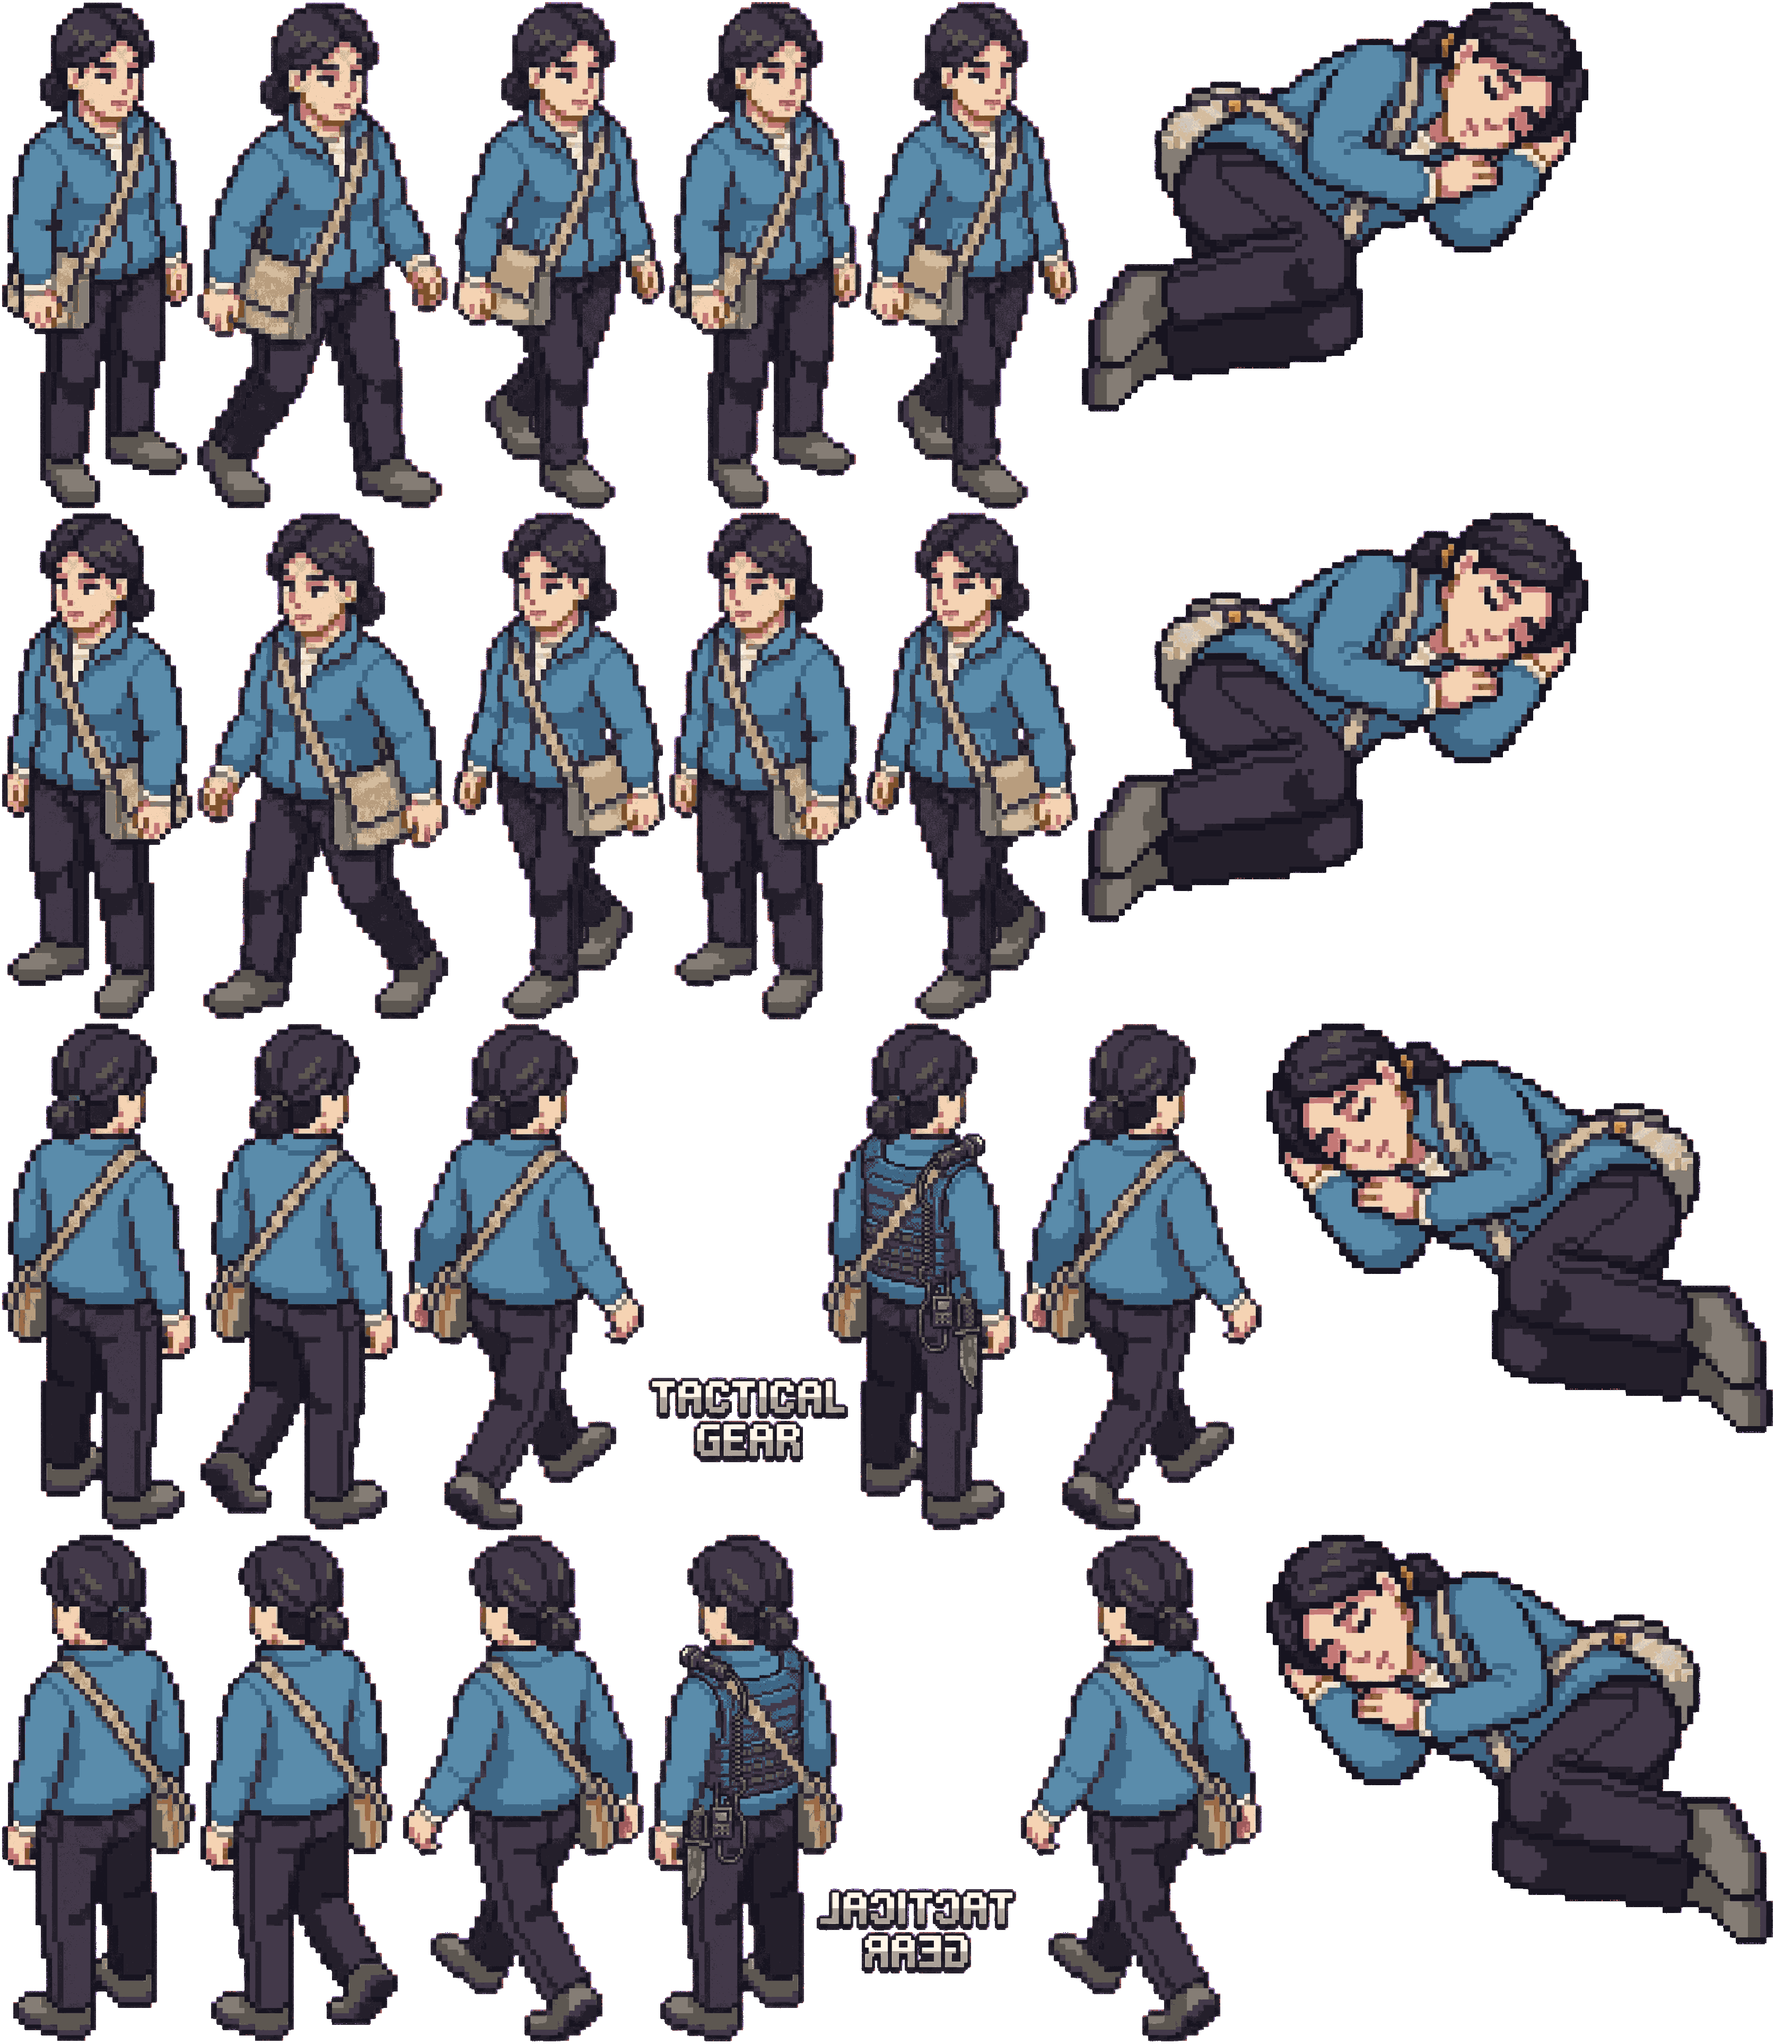
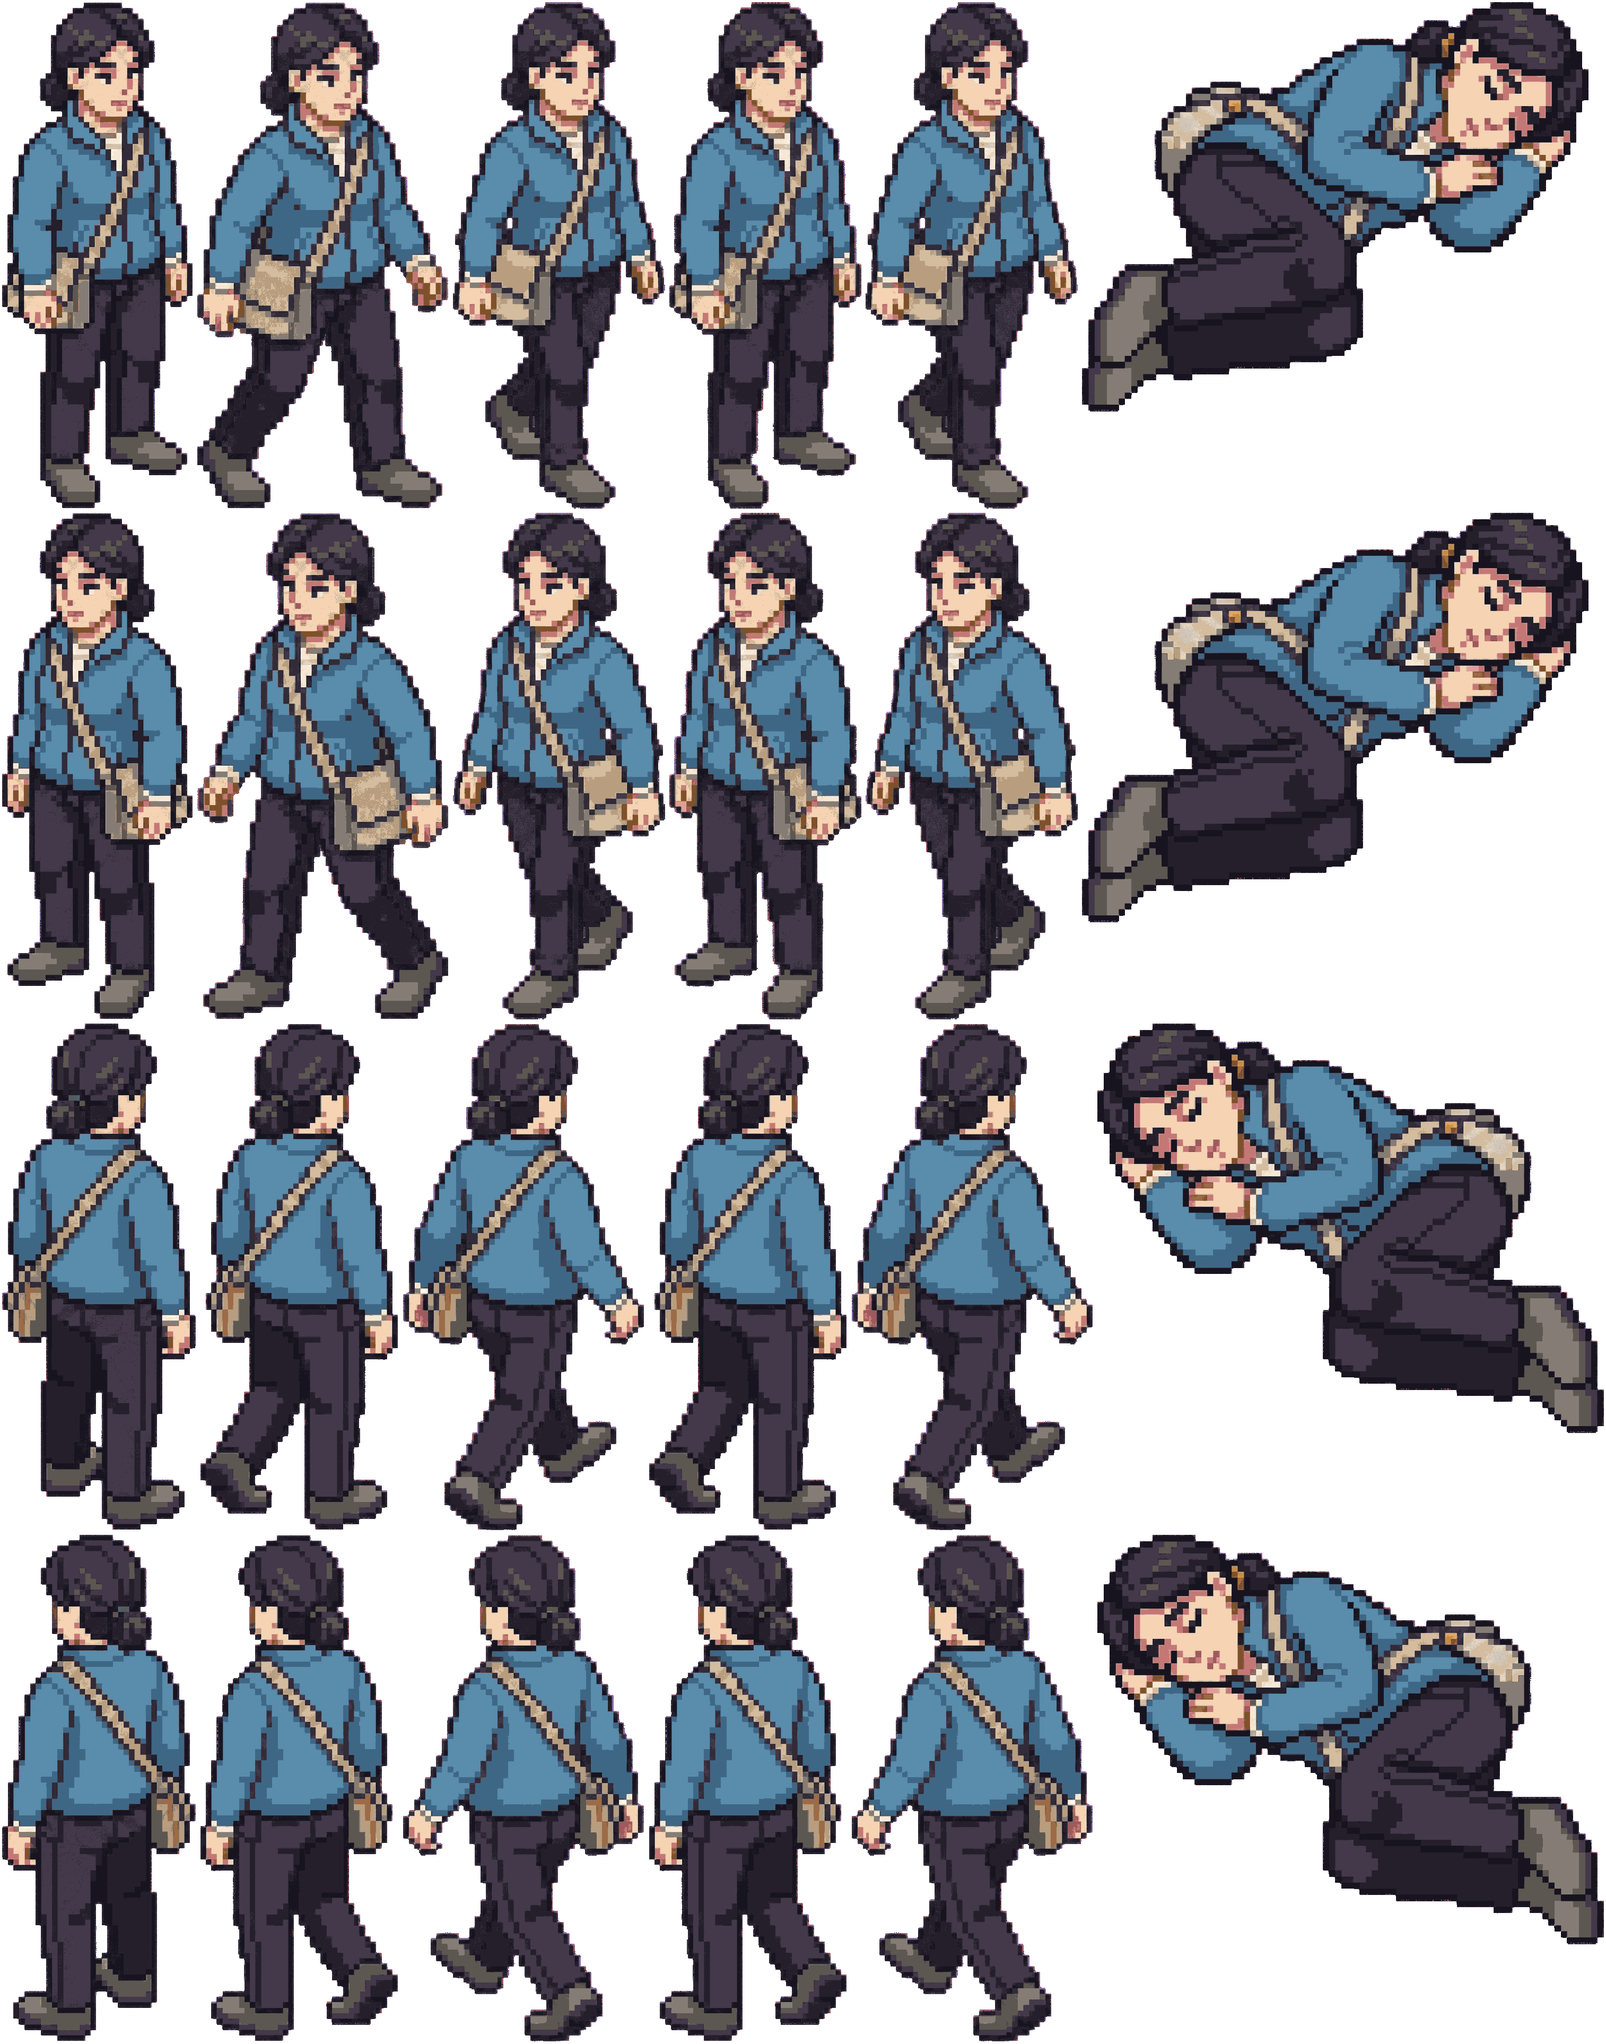
char-sprites T1: TACTICAL GEAR was baked into Amara's atlas, and every gate passed it
WHAT IT WAS. Not a runtime label and not a missing-asset fallback: pixels. The cell
`contact-b-ne` of packages/forge/content/cast/amara/atlas.png is a STANDING figure in
a tactical harness with the words TACTICAL GEAR set beside her in MASTER_PALETTE
silver — the image model captioning the costume it had just invented — and the
mirror standard derived `contact-b-nw` from it, so the caption also shipped
backwards. Nothing in packages/ contains the string; worldLabel.ts's monopoly on
BitmapText/Text is intact.

WHY "SOMETIMES". The cell is reached only when the walk loop is on contact-b (1 frame
in 4, ~180 ms of every 720 ms) AND the body faces ne or nw. Not a race, not a cache
eviction, not an unauthored frame: a wrong authored frame in a rarely-reached cell.
Its 701 px bounding box also put feetX in the middle of figure-plus-caption, so she
jumped ~6 px sideways on that frame.

WHY IT SHIPPED. alphaBinaryGate passed (the letters are hard alpha), paletteGate
passed (silver is on the master palette), the manifest gate passed (a legal rect),
despeckle skipped it (it clears islands under 1% of the mass; "TACTICAL" alone is
8.93%), and the generator's coherence gate MEASURED it — 1.1855 opaque area against
a 1.18 tolerance — then shipped it anyway, because bestOf() picks the least-bad of
three failing candidates and only identityBroken (>1.5) is a hard stop.

THE REPAIR. contact-b-ne := contact-a-ne, contact-b-nw := contact-a-nw — the last
[…]

diff --git a/packages/forge/src/pixelGates.ts b/packages/forge/src/pixelGates.ts
@@ -216,6 +216,65 @@ export function tilesetVarietyGate(
   return { ok: ok(failures), failures, shortestPeriod }
 }
 
+// ------------------------------------------------- 9. one body, one silhouette
+
+// ★ THE GATE THAT WOULD HAVE STOPPED "TACTICAL GEAR".
+//
+// `amara/contact-b-ne` shipped a standing figure in a tactical harness with the words
+// TACTICAL GEAR set beside her in silver pixel type — the image model captioning the costume
+// it had just invented — and its mirror `contact-b-nw` shipped the caption backwards. It
+// reached the running product: one frame in four of Amara's walk loop, in two of her four
+// facings. EVERY LANDED GATE PASSED IT. `alphaBinaryGate` passed because the letters are hard
+// alpha; `paletteGate` passed because they are drawn in MASTER_PALETTE silver; the coherence
+// gate measured 1.1855 against a 1.18 silhouette tolerance and the generator shipped the
+// least-bad of three failing candidates anyway; and `despeckle` removes islands under 1 % of
+// the mass, while "TACTICAL" alone is 8.93 %.
+//
+// What none of them asked is the thing a person can see instantly: A PERSON IS ONE SHAPE.
+// Text, a caption, a stray prop, a second figure, a baked drop shadow — every one of them is
+// opaque mass that does not touch the body. Measured over the 120 committed cast cells: 118
+// are exactly ONE island and the largest detached mass anywhere among them is 0.0000 %.
+//
+// The tolerance is `despeckle`'s own contract, so this gate asks for nothing the pipeline does
+// not already promise: anything the pipeline should have swept, and nothing it should not.
+export const DETACHED_MASS_MAX = 0.01
+
+export function soleSilhouetteGate(img: RawImage): GateResult & {
+  islands: number; detachedFraction: number
+} {
+  const { width: w, height: h, data } = img
+  const seen = new Uint8Array(w * h)
+  const stack: number[] = []
+  const sizes: number[] = []
+  for (let start = 0; start < w * h; start++) {
+    if (seen[start] === 1 || data[start * 4 + 3] === 0) continue
+    let n = 0
+    stack.push(start)
+    seen[start] = 1
+    while (stack.length > 0) {
+      const p = stack.pop()!
+      n++
+      const px = p % w, py = (p - px) / w
+      if (px + 1 < w) { const q = p + 1; if (seen[q] === 0 && data[q * 4 + 3] !== 0) { seen[q] = 1; stack.push(q) } }
+      if (px > 0) { const q = p - 1; if (seen[q] === 0 && data[q * 4 + 3] !== 0) { seen[q] = 1; stack.push(q) } }
+      if (py + 1 < h) { const q = p + w; if (seen[q] === 0 && data[q * 4 + 3] !== 0) { seen[q] = 1; stack.push(q) } }
+      if (py > 0) { const q = p - w; if (seen[q] === 0 && data[q * 4 + 3] !== 0) { seen[q] = 1; stack.push(q) } }
+    }
+    sizes.push(n)
+  }
+  const total = sizes.reduce((s, n) => s + n, 0)
+  const body = sizes.length === 0 ? 0 : Math.max(...sizes)
+  const detachedFraction = total === 0 ? 0 : (total - body) / total
+  const failures = total === 0
+    ? ['silhouette: the cell has no opaque pixels at all']
+    : detachedFraction > DETACHED_MASS_MAX
+      ? [`silhouette: ${sizes.length} opaque islands — ${(detachedFraction * 100).toFixed(2)}% of the `
+        + `mass does not touch the body (limit ${(DETACHED_MASS_MAX * 100).toFixed(0)}%). `
+        + 'A person is ONE shape; a second island is a caption, a prop or a second figure.']
+      : []
+  return { ok: ok(failures), failures, islands: sizes.length, detachedFraction }
+}
+
 // ---------------------------------------------------------------- the bar, assembled
 
 export type PixelBarArgs = {

diff --git a/packages/forge/src/pixelGates.test.ts b/packages/forge/src/pixelGates.test.ts
@@ -4,7 +4,7 @@ import { decodePng, type RawImage } from './post/raw.js'
 import {
   integerScaleGate, pixelGridGate, alphaBinaryGate, paletteGate,
   nativeDensityGate, classDensityGate, tileSeamGate, tilesetVarietyGate,
-  pixelBarReport, SEAM_RATIO_MAX, SEAM_ABSOLUTE_FLOOR,
+  pixelBarReport, soleSilhouetteGate, SEAM_RATIO_MAX, SEAM_ABSOLUTE_FLOOR,
 } from './pixelGates.js'
 import { derivedPalette } from './ramps.js'
 import { quantize } from './post/quantize.js'
@@ -194,5 +194,54 @@ describe('pixelBarReport', () => {
     expect(r.failures.length).toBeGreaterThanOrEqual(3)
     expect(r.failures.join(' ')).toContain('anisotropic')
     expect(r.failures.join(' ')).toContain('seam')
+  })
+})
+
+describe('soleSilhouetteGate — a person is ONE shape', () => {
+  const body = (w: number, h: number): RawImage => {
+    const img = solid(w, h, [0, 0, 0, 0])
+    for (let y = h >> 2; y < h - (h >> 2); y++)
+      for (let x = w >> 2; x < w - (w >> 2); x++) img.data.set([0x43, 0x39, 0x4a, 255], (y * w + x) * 4)
+    return img
+  }
+  // a detached rectangle in the corner — a caption, a prop, a baked shadow, a second figure
+  const withIsland = (img: RawImage, iw: number, ih: number): RawImage => {
+    const out: RawImage = { ...img, data: new Uint8ClampedArray(img.data) }
+    for (let y = 0; y < ih; y++)
+      for (let x = 0; x < iw; x++) out.data.set([0xcf, 0xc6, 0xbc, 255], (y * img.width + x) * 4)
+    return out
+  }
+
+  it('GREEN on one connected mass', () => {
+    const r = soleSilhouetteGate(body(64, 96))
+    expect(r.ok).toBe(true)
+    expect(r.islands).toBe(1)
+    expect(r.detachedFraction).toBe(0)
+  })
+
+  // the shipped cell measured 230410 px of body against 24095 + 15279 px of lettering
+  it('RED on a detached island the size of the real "TACTICAL GEAR" block', () => {
+    const r = soleSilhouetteGate(withIsland(body(400, 600), 90, 60)) // 5400 of 65400 = 8.26%
+    expect(r.ok).toBe(false)
+    expect(r.islands).toBe(2)
+    expect(r.detachedFraction).toBeCloseTo(5400 / 65400, 4)
+    expect(r.failures[0]).toContain('does not touch the body')
+  })
+
+  it("tolerates a speck inside despeckle's own 1% contract, and nothing past it", () => {
+    expect(soleSilhouetteGate(withIsland(body(400, 600), 20, 20)).ok).toBe(true)  // 0.66%
+    expect(soleSilhouetteGate(withIsland(body(400, 600), 30, 30)).ok).toBe(false) // 1.48%
+  })
+
+  it('RED on an empty cell, which no other gate calls a failure', () => {
+    const r = soleSilhouetteGate(solid(32, 32, [0, 0, 0, 0]))
+    expect(r.ok).toBe(false)
+    expect(r.failures[0]).toContain('no opaque pixels')
+  })
+
+  it('counts diagonal-only contact as detached — a pixel body is 4-connected', () => {
+    const img = solid(8, 8, [0, 0, 0, 0])
+    for (const [x, y] of [[1, 1], [2, 2], [3, 3]]) img.data.set([0, 0, 0, 255], (y! * 8 + x!) * 4)
+    expect(soleSilhouetteGate(img).islands).toBe(3)
   })
 })

diff --git a/packages/forge/src/artCoverage.test.ts b/packages/forge/src/artCoverage.test.ts
@@ -6,7 +6,7 @@ import { loadReferenceSheet, paletteSwatchPng } from './referenceSheet.js'
 import { openForgeDb } from './db.js'
 import { AssetCodex } from './codex.js'
 import { decodePng } from './post/raw.js'
-import { alphaBinaryGate, paletteGate } from './pixelGates.js'
+import { alphaBinaryGate, paletteGate, soleSilhouetteGate } from './pixelGates.js'
 import { ICON_PX, WORLD_SPRITE_PX } from './assetResolution.js'
 import { LIBRARY, LIBRARY_COUNTS } from './library/catalog.js'
 import { ICON_SUFFIX } from './library/register.js'
@@ -200,5 +200,29 @@ describe('the committed cast', () => {
     }
     expect(alphaBinaryGate(atlas).failures).toEqual([])
     expect(paletteGate(atlas).failures).toEqual([])
+  })
+
+  // ★ AND EVERY CELL IS ONE PERSON, WHICH IS THE ONE THING NOTHING ABOVE ASKS.
+  //
+  // `amara/contact-b-ne` shipped a figure in a tactical harness with TACTICAL GEAR set beside
+  // her in silver, and its mirror shipped the caption backwards. A viewer saw it in the running
+  // product. It cleared the alpha gate (hard-edged letters), the palette gate (MASTER_PALETTE
+  // silver), the manifest gate (a legal rect) and the generator's own coherence gate (1.1855
+  // against a 1.18 tolerance, shipped as the least-bad of three failures).
+  //
+  // Two cells is not a list to keep up to date — the gate is the PROPERTY, and it holds over
+  // all 120 cells with the whole detached mass measuring 0.0000 % once these two are repaired.
+  it.each(cast.map((c) => [c.id, c] as const))('%s draws one body per cell and nothing else', async (id, c) => {
+    const atlas = await decodePng(c.atlas)
+    const bad: string[] = []
+    for (const [name, r] of Object.entries(c.manifest.cells)) {
+      const cell = { width: r.w, height: r.h, data: new Uint8ClampedArray(r.w * r.h * 4) }
+      for (let y = 0; y < r.h; y++) {
+        const src = ((r.y + y) * atlas.width + r.x) * 4
+        cell.data.set(atlas.data.subarray(src, src + r.w * 4), y * r.w * 4)
+      }
+      for (const f of soleSilhouetteGate(cell).failures) bad.push(`${id}/${name}: ${f}`)
+    }
+    expect(bad).toEqual([])
   })
 })

diff --git a/packages/forge/scripts/gen-cast-v5.ts b/packages/forge/scripts/gen-cast-v5.ts
@@ -52,7 +52,7 @@ import {
 } from '../src/mirror.js'
 import { processHiResCell } from '../src/hires.js'
 import { packCharacterAtlas } from '../src/atlasV4.js'
-import { alphaBinaryGate, paletteGate } from '../src/pixelGates.js'
+import { alphaBinaryGate, paletteGate, soleSilhouetteGate } from '../src/pixelGates.js'
 import { CAST_CONTENT_DIR } from '../src/castArt.js'
 import { BIG_PIXEL } from './character.js'
 import { CAST_V5, PROPORTION_ANCHOR_ID, type CastMember } from './cast-v5.js'
@@ -314,6 +314,13 @@ async function runCharacter(m: CastMember): Promise<void> {
     try { sliceStrip(keyed, 2); two = true } catch { /* one cluster — good */ }
     if (two) throw new Error('slices into 2 figure clusters — multi-figure frame')
     const hi = processHiResCell(keyed, TARGET_H)
+    // ★ AND ONE BODY, NOTHING ELSE. `sliceStrip` above catches a SECOND FIGURE, which is what
+    // it was written for; it does not catch the model captioning its own work. Amara's
+    // contact-b-ne shipped with TACTICAL GEAR set beside her in silver, and the caption sat
+    // inside the figure's own column, so the strip slicer saw one cluster. This is a hard
+    // reject like the two above it: the candidate is dropped and another is drawn.
+    const sole = soleSilhouetteGate(hi)
+    if (!sole.ok) throw new Error(sole.failures.join('; '))
     const b = opaqueBbox(hi)!
     const aspect = (b.x1 - b.x0 + 1) / (b.y1 - b.y0 + 1)
     if (aspect > 1.15) throw new Error(`aspect ${aspect.toFixed(2)} > 1.15 — multi-figure or lying`)
